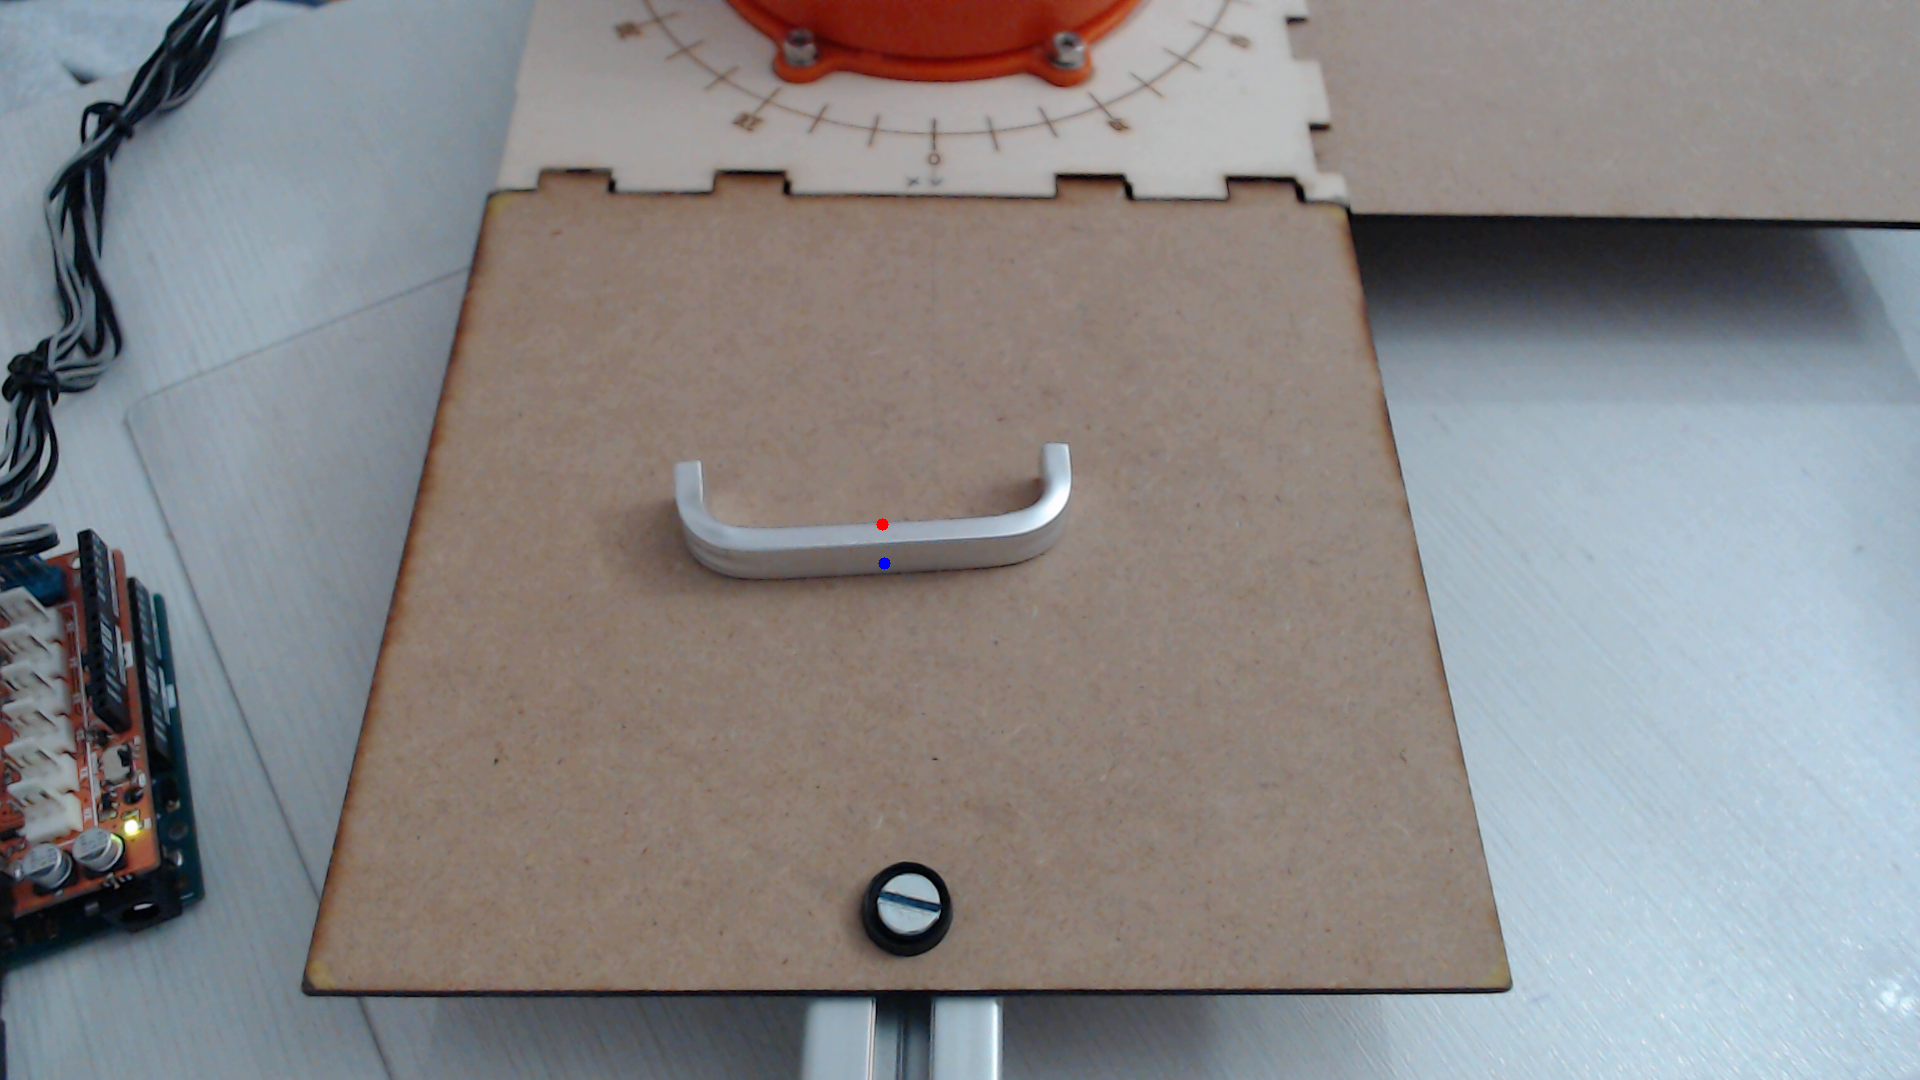
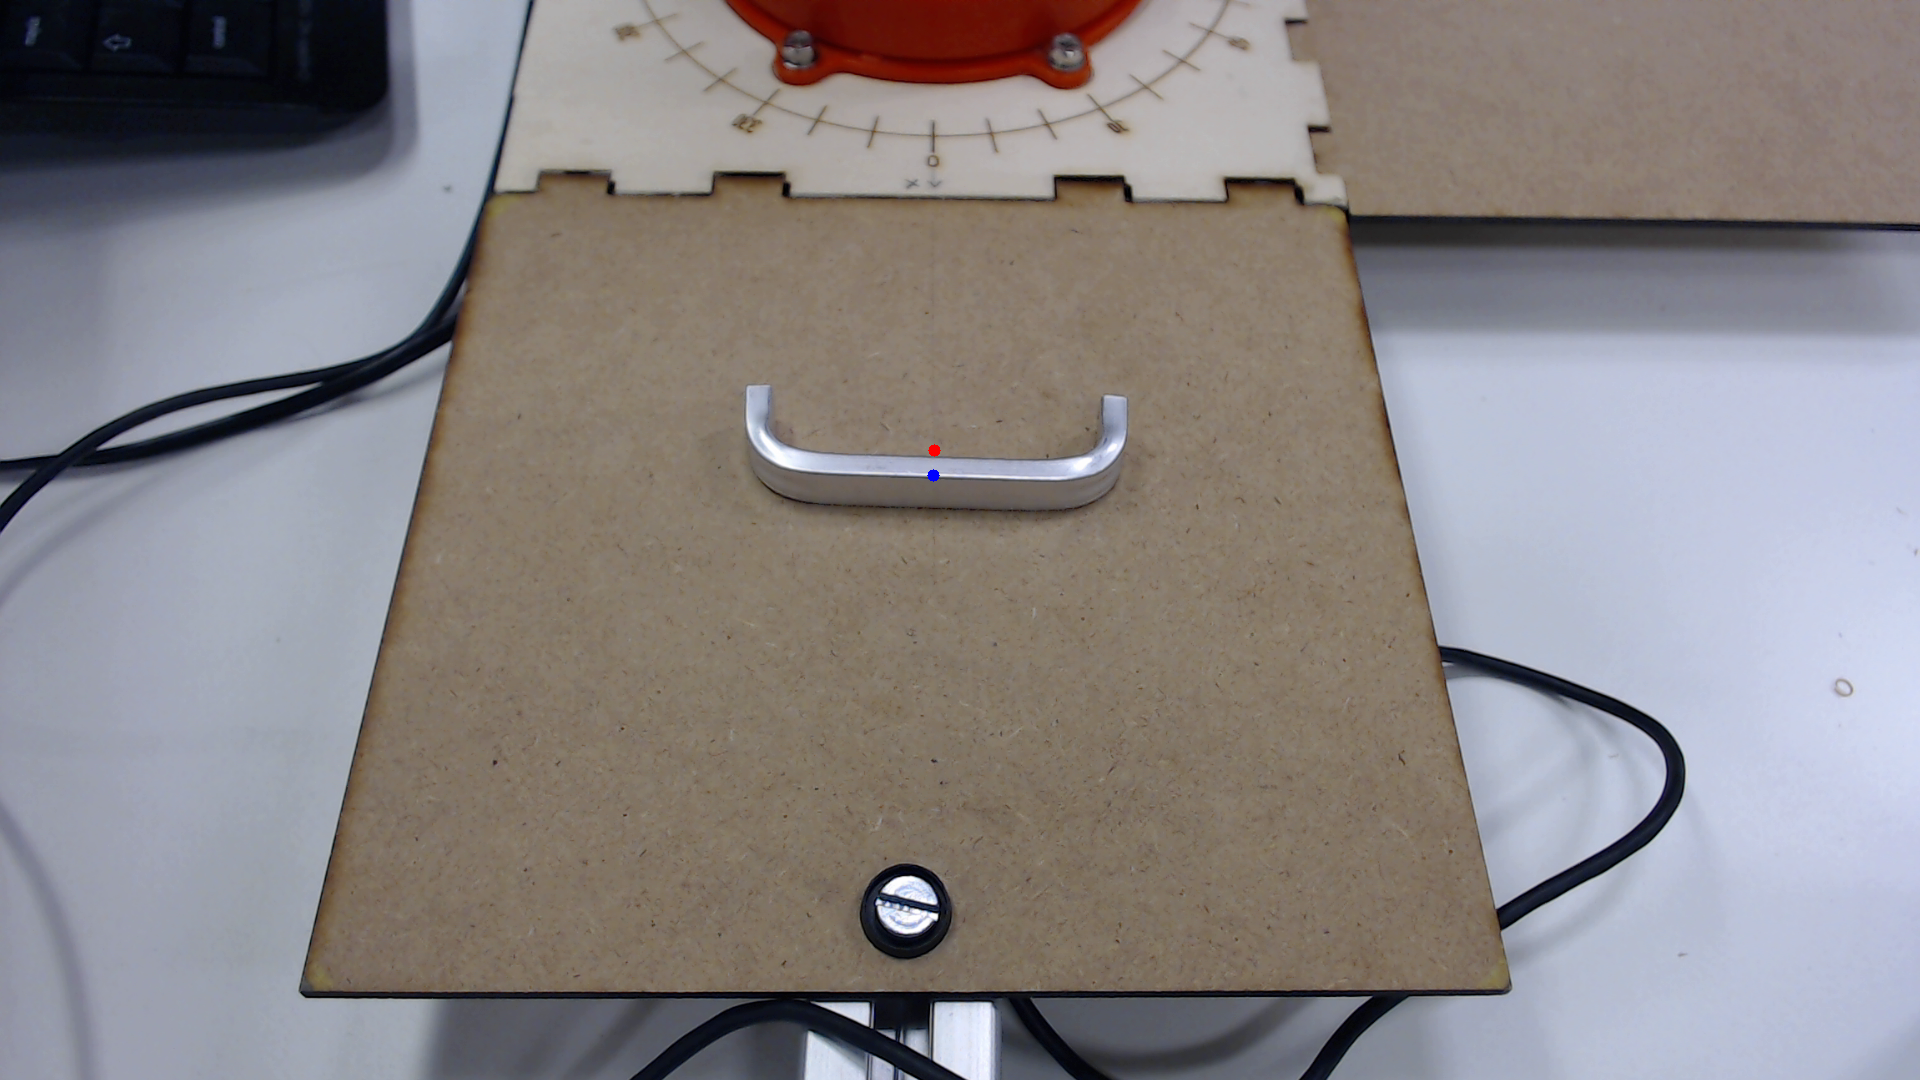
límites de grados para cin inversa y cosas varias

diff --git a/interfaz_robot/interfaz_robot.cpp b/interfaz_robot/interfaz_robot.cpp
@@ -152,6 +152,7 @@ void interfaz_robot::getNewFrame()
 
         m_ultimoFrame = frame.clone();
         m_ultimosPuntos = pts;
+        std::cout << "Ult ptos: " << pts.centro << "y" << pts.lejano << std::endl;
 
         if (m_cogerPieza)
         {
@@ -161,23 +162,23 @@ void interfaz_robot::getNewFrame()
 
             cv::imwrite("pieza_final.png", m_ultimoFrame);
 
-            /*cv::Point3d centro_baseRobot =
+			// Centro del panel en coordenadas del robot (prueba)
+            //cv::Point3d centro_baseRobot(170, 0, 0);
+			//cv::Point3d lejano_baseRobot(172, 0, 1);
+            //pts.centro = { 1019, 408 };
+            //pts.lejano = { 1019, 444.469 };
+            cv::Point3d centro_baseRobot =
                 pixelToWorld3D(m_ultimosPuntos.centro, m_K, m_RTpc, m_RTcr);
-
             cv::Point3d lejano_baseRobot =
                 pixelToWorld3D(m_ultimosPuntos.lejano, m_K, m_RTpc, m_RTcr);
-
-            float angulo = atan2(lejano_baseRobot.y - centro_baseRobot.y, lejano_baseRobot.x - centro_baseRobot.x) * 180.0 / M_PI;*/
-
-			// Centro del panel en coordenadas del robot (prueba)
-            cv::Point3d centro_baseRobot(17, 0, 5);
-			cv::Point3d lejano_baseRobot(18, 0, 5);
             float angulo = atan2(lejano_baseRobot.y - centro_baseRobot.y, lejano_baseRobot.x - centro_baseRobot.x) * 180.0 / M_PI;
+            
             std::cout << "Centro en: " << centro_baseRobot << std::endl;
             std::cout << "Lejano en: " << lejano_baseRobot << std::endl; 
             std::cout << "Angulo: " << angulo << std::endl;
 
             CinematicaInversa(centro_baseRobot.x, centro_baseRobot.y, centro_baseRobot.z, angulo);
+            //TrasladarPieza();
 
             // Pasar a modo frame congelado
             m_mostrarFrameCongelado = true;
@@ -266,7 +267,7 @@ void interfaz_robot::CargarMatricesCalibracion()
         qDebug() << "Aviso: RT_camara_base no cargada.";
     }
 
-    qDebug() << "Matrices de calibración cargadas correctamente.";
+    qDebug() << "Matrices de calibracion cargadas correctamente.";
 }
 
 
@@ -378,18 +379,18 @@ void interfaz_robot::MoverTodosLosEjes()
 
 void interfaz_robot::MoverTodosLosEjes(int *angulos)
 {
-    // Verificar que todos los valores estén dentro del rango permitido
-    for (int i = 0; i < 6; ++i)
-    {
-        if (angulos[i] < -90 || angulos[i] > 90)
-        {
-            QMessageBox::warning(this, "Valor fuera de rango",
-                QString("El eje %1 tiene un valor no válido (%2°).\n\n"
-                    "Debe estar entre -90° y +90°.")
-                .arg(i).arg(angulos[i]));
-            return; // Cancelar el envío
-        }
-    }
+    //// Verificar que todos los valores estén dentro del rango permitido
+    //for (int i = 0; i < 6; ++i)
+    //{
+    //    if (angulos[i] < -90 || angulos[i] > 90)
+    //    {
+    //        QMessageBox::warning(this, "Valor fuera de rango",
+    //            QString("El eje %1 tiene un valor no válido (%2°).\n\n"
+    //                "Debe estar entre -90° y +90°.")
+    //            .arg(i).arg(angulos[i]));
+    //        return; // Cancelar el envío
+    //    }
+    //}
 
     // Construir el comando tipo: #a45,0,30,90,-30,60*
     QString comando = "#a";
@@ -647,6 +648,39 @@ PuntosProcesados interfaz_robot::ComenzarProcesado(Mat img)
     LocalizarPieza(procesada, centro, lejano);
     std::cout << "Centroide: " << centro << ", Punto lejano: " << lejano << std::endl;
 
+    // Quitar reescalado
+    // Definir los mismos puntos que se usaron en recortarYReescalar
+    std::vector<cv::Point2f> srcPoints = {
+        cv::Point2f(490, 192),    // Superior izquierda
+        cv::Point2f(1343, 205),   // Superior derecha
+        cv::Point2f(304, 988),    // Inferior izquierda
+        cv::Point2f(1505, 983)    // Inferior derecha
+    };
+
+    int anchoNuevo = 1920; // Igual que en recortarYReescalar
+    int altoNuevo = 1080;
+
+    std::vector<cv::Point2f> dstPoints = {
+        cv::Point2f(0, 0),
+        cv::Point2f(anchoNuevo, 0),
+        cv::Point2f(0, altoNuevo),
+        cv::Point2f(anchoNuevo, altoNuevo)
+    };
+
+    // Calcular homografía inversa
+    cv::Mat hInv = cv::getPerspectiveTransform(dstPoints, srcPoints);
+
+    // Transformar los puntos detectados a coordenadas originales
+    std::vector<cv::Point2f> puntosProcesados = { centro, lejano };
+    cv::perspectiveTransform(puntosProcesados, puntosProcesados, hInv);
+
+    // Actualizar los puntos con las coordenadas originales
+    centro = puntosProcesados[0];
+    lejano = puntosProcesados[1];
+
+    std::cout << "Centroide transf: " << centro << ", Punto lejano transf: " << lejano << std::endl;
+
+
     // Quitar distorsión
     std::vector<cv::Point2d> srcPoints1{ centro }, undistortedPoints_centro;
     cv::undistortPoints(srcPoints1, undistortedPoints_centro, m_K, m_D, cv::noArray(), m_K);
@@ -659,6 +693,7 @@ PuntosProcesados interfaz_robot::ComenzarProcesado(Mat img)
     std::cout << "Centro sin dist" << centro_sin_distorsion << ". Lejano sin disr: " << lejano_sin_distorsion << std::endl;
 
     return { centro_sin_distorsion, lejano_sin_distorsion };
+    //return { centro, lejano };
 }
 
 
@@ -790,16 +825,57 @@ void interfaz_robot::CinematicaInversa(double cx, double cy, double cz, double a
     qDebug() << "q_deseado[4] =" << q_deseado[4] << "°";
     qDebug() << "q_deseado[5] =" << q_deseado[5] << "°";
 
-    //MoverTodosLosEjes(q_deseado);
-    //AbrirCerrarPinza(1); // Cerrar pinza
+    // Redondear los valores al entero menor
+	for (int i = 0; i < 6; i++)
+		q_deseado[i] = floor(q_deseado[i]);
+    // Convertir a int
+	int q_deseado_int[6];
+	for (int i = 0; i < 6; i++)
+		q_deseado_int[i] = static_cast<int>(q_deseado[i]);
+    
+    // Comprobación de límites [0, 90]
+    bool posicion_valida = true;
+    QString mensaje_error;
 
-    // Actualizar los ángulos actuales
     for (int i = 0; i < 6; i++)
-        m_q[i] = q_deseado[i];
+    {
+        if (q_deseado_int[i] < 0 || q_deseado_int[i] > 90)
+        {
+            posicion_valida = false;
+            mensaje_error += QString(
+                "El eje %1 se sale del rango permitido: %2° (rango 0°–90°)\n"
+            ).arg(i + 1).arg(q_deseado_int[i]);
+        }
+    }
 
-    // Actualizar información de los motores en la interfaz
-    ActualizarInterfaz();
+    // Actuar según el resultado
+    if (posicion_valida)
+    {
+        // Mover ejes
+        MoverTodosLosEjes(q_deseado_int);
 
+        // Cerrar pinza
+        AbrirCerrarPinza(1);
+
+        // Actualizar los ángulos actuales
+        for (int i = 0; i < 6; i++)
+            m_q[i] = q_deseado_int[i];
+
+        // Actualizar la interfaz
+        ActualizarInterfaz();
+    }
+    else
+    {
+        // Aviso de error
+        QMessageBox::warning(
+            this,
+            "Posición no alcanzable",
+            "El robot no puede alcanzar la posición solicitada:\n\n" + mensaje_error
+        );
+
+        qDebug() << "Posición no alcanzable:";
+        qDebug().noquote() << mensaje_error;
+    }
 }
 
 void interfaz_robot::TrasladarPieza()
@@ -817,7 +893,7 @@ void interfaz_robot::TrasladarPieza()
 	waitKey(1500); // Esperar 1.5 segundos por si acaso
 
     // 2: Mover a posición de seguridad
-    int angulos[6] = { 90,5 ,70 ,90 ,0, round(q_original[5]) };
+    int angulos[6] = { 90, 5, 70, 90, 0, round(q_original[5]) };
     qDebug() << "2. Girando base a 90 grados: q0 =" << m_q[0];
 	MoverTodosLosEjes(angulos);
     waitKey(1500); // Esperar 1.5 segundos por si acaso

diff --git a/interfaz_robot/camera_calibration.cpp b/interfaz_robot/camera_calibration.cpp
@@ -214,7 +214,7 @@ cv::Mat fkBraccio(const double q_deg[6])
         RotY(q4) * Trans(0, 0, L4) *
         RotZ(q5) * Trans(0, 0, L5);
 
-    return (RT_gripperBase.inv());
+    return (RT_gripperBase.inv()); // devuelve RT base gripper
 }
 
 bool calibrateCameraRobot(
